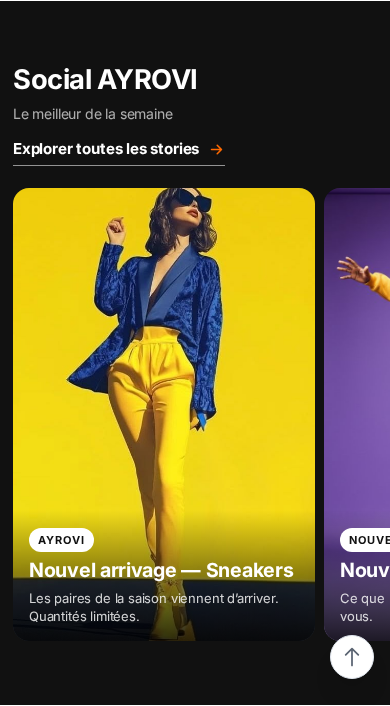
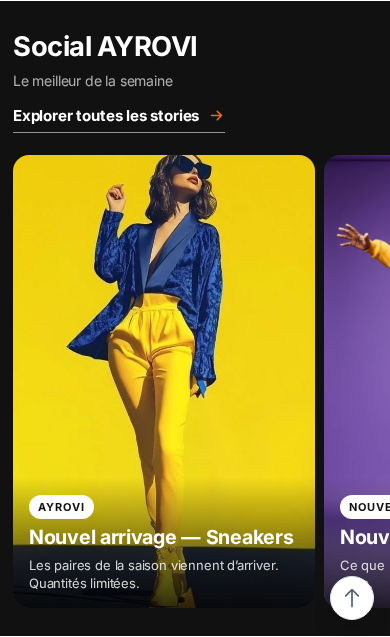
fix(stories): tighten the voids above and below the block to the model
The block was carrying 64px of padding at each end on a phone and 104px on a
wide screen. Measuring the supplied model against a text-free strip of the
card (the overlay text had skewed the first attempt) gives its real numbers:

  before the title :  57px  = 7.92vw
  after the card   :  52px  = 7.22vw

So the excess was 47px at the top and 52px at the bottom on a 720px viewport
— about a centimetre at each end, exactly what was reported.

Both voids are now their own proportional value, so they hold at every width:
31px / 28px on a 390px screen (was 64 / 64), 57px / 52px at 720px and above.
The block is 99px shorter overall at 720px.

The same re-measurement settles the card, which the overlay text had made look
shorter than it is: 557 x 835 px, a ratio of 0.6671 — 2/3 to within 0.0004.

Measured on the running page: top 57px, bottom 52px, card 557x836 at 720px and
302x453 at 390px. Orange 2.19% (Stories), 0.004-0.016% (LENS) — max 2.19%
against the 3% budget. Typecheck OK, vitest 705/705, build OK.

Changed region(s): [[0.0308, 0.0597, 1.0, 0.9843], [0.8, 0.2386, 1.0, 0.2983], [0.8615, 0.3579, 1.0, 0.4474]]

diff --git a/client/src/index.css b/client/src/index.css
@@ -1255,21 +1255,28 @@ html[data-ayrovi-icon-style='solid'] .ayrovi-icon {
    Le modèle est un bloc ENTIER posé sur un fond NOIR : le fond noir commence
    avant le titre et se termine après la carte. Tout le texte est blanc.
    Géométrie mesurée (capture 720 px de large) :
-     · carte  557 px  = 77,4 % de l'écran
+     · carte  557 × 835 px  = 77,36 % de l'écran, rapport 0,6671 → 2/3
      · marge gauche 24 px = 3,33 %   · interstice 16 px = 2,22 %
      · carte suivante visible 123 px = 17,1 %
-     · rapport largeur/hauteur 0,683  →  retenu : 2/3 (0,667)
+     · vide avant le titre 57 px = 7,92vw   · vide après la carte 52 px = 7,22vw
    Ces valeurs sont des proportions : elles tiennent à toutes les largeurs.
    ───────────────────────────────────────────────────────────────────────────── */
 .stories-showcase {
-  --stories-showcase-gap: clamp(64px, 15vw, 104px);
+  /* Vides relevés sur le modèle (viewport 720 px) : 57 px avant le titre,
+     52 px après la carte — soit 7,92vw et 7,22vw. Des proportions, donc
+     valables à toutes les largeurs : sur un écran de 390 px on tombe à
+     31 px et 28 px au lieu des 64 px d'avant, soit ~1 cm de moins à
+     chaque extrémité, exactement le vide qui avait été signalé. */
+  --stories-showcase-gap-top: clamp(30px, 7.92vw, 57px);
+  --stories-showcase-gap-bottom: clamp(28px, 7.22vw, 52px);
   --stories-showcase-gutter: clamp(13px, 3.33vw, 32px);
   --stories-showcase-interstice: clamp(9px, 2.22vw, 16px);
   --stories-showcase-card: min(77.4vw, 560px);
 
   background: var(--ayrovi-text-primary);
   color: var(--ayrovi-bg-main);
-  padding-block: var(--stories-showcase-gap);
+  padding-top: var(--stories-showcase-gap-top);
+  padding-bottom: var(--stories-showcase-gap-bottom);
 }
 
 .stories-showcase__head {

diff --git a/tests/stories-showcase.test.ts b/tests/stories-showcase.test.ts
@@ -156,9 +156,16 @@ describe('Stories showcase — settings come from the dashboard', () => {
     expect(code(component)).toContain('stories-showcase__carddesc');
   });
 
-  test('the block breathes — a comfortable gap separates it from its neighbours', () => {
-    expect(indexCss).toMatch(/\.stories-showcase\s*\{[^}]*--stories-showcase-gap:\s*clamp\(64px/);
-    expect(indexCss).toMatch(/\.stories-showcase\s*\{[^}]*padding-block:\s*var\(--stories-showcase-gap\)/);
+  test('the two voids match the model — ~1 cm less than before, at both ends', () => {
+    // Relevé sur le modèle (viewport 720 px) : 57 px avant le titre, 52 px après
+    // la carte. Exprimés en vw pour tenir à toutes les largeurs ; sur un écran
+    // de 390 px cela donne 31 px et 28 px au lieu des 64 px d'avant.
+    expect(indexCss).toMatch(/--stories-showcase-gap-top:\s*clamp\(30px,\s*7\.92vw,\s*57px\)/);
+    expect(indexCss).toMatch(/--stories-showcase-gap-bottom:\s*clamp\(28px,\s*7\.22vw,\s*52px\)/);
+    expect(indexCss).toMatch(/\.stories-showcase\s*\{[^}]*padding-top:\s*var\(--stories-showcase-gap-top\)/);
+    expect(indexCss).toMatch(/\.stories-showcase\s*\{[^}]*padding-bottom:\s*var\(--stories-showcase-gap-bottom\)/);
+    // les deux vides ne sont plus une valeur unique : ils suivent chacun le modèle
+    expect(indexCss).not.toMatch(/--stories-showcase-gap:/);
   });
 
   test('Zalando charter: the whole block is a monochrome dark panel, orange on the arrow only', () => {

diff --git a/CHANGELOG.md b/CHANGELOG.md
@@ -56,6 +56,10 @@ All notable AYROVI changes are recorded in this file.
   - The spacing follows the model: card **77.4 %** of the screen, left inset **3.33 %**, gap **2.22 %**, next card visible **17.1 %**. Measured on the running page: card 302 px = 77.4 %, next card overflowing 66 px = 16.9 %.
   Measured orange coverage after the change: 1.97 % (Stories) — the pixels come from the story photos, the CSS still contributes only the arrow.
 
+### Changed
+- **The two voids above and below the Stories block are tightened to the model's own measurements.** The block carried 64 px of padding at each end on a phone (104 px on a wide screen) while the supplied model shows **57 px before the title and 52 px after the card** — i.e. 7.92vw and 7.22vw. Expressed as proportions so they hold at every width: on a 390 px screen the voids drop from 64 px to **31 px** (top) and **28 px** (bottom), about a centimetre less at each end, which is the excess that had been reported. The block is now 99 px shorter overall on a 720 px viewport.
+  Re-measuring the model also confirmed the card: 557 × 835 px, a ratio of **0.6671** — 2/3 to within 0.0004.
+
 ### Added
 - **Five demo stories** published across the five channels (Ayrovi Official / Nouveautés / Style / Actus / Promos) so the container is visible immediately. They are ordinary rows in the `stories` table — edit or delete them freely from Stories Studio.
 
